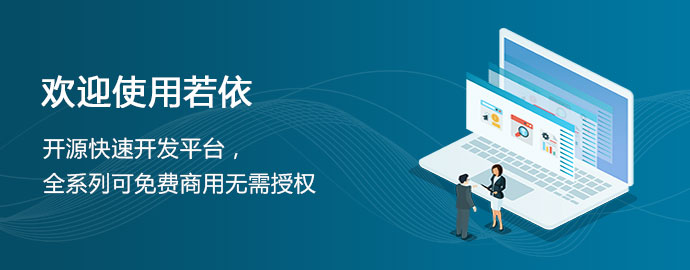
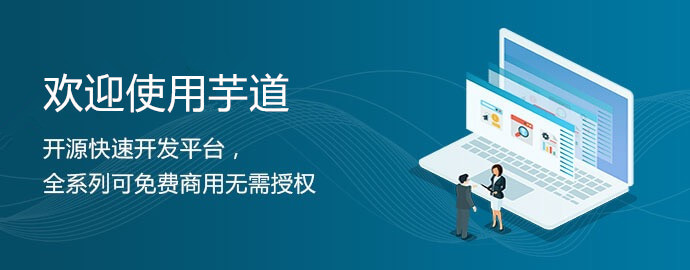
调整 yudao-ui-admin-uniapp 的说明

diff --git a/README.md b/README.md
@@ -23,8 +23,8 @@
 >
 > 😜 给项目点点 Star 吧，这对我们真的很重要！
 
-* 前端 Vue2 版本采用 [vue-element-admin](https://github.com/PanJiaChen/vue-element-admin)
-* 前端 Vue3 版本采用 [vue-element-plus-admin](https://gitee.com/kailong110120130/vue-element-plus-admin)
+* 管理后台的 Vue3 版本采用 [vue-element-plus-admin](https://gitee.com/kailong110120130/vue-element-plus-admin) ，Vue2 版本采用 [vue-element-admin](https://github.com/PanJiaChen/vue-element-admin) 
+* 管理后台的移动端采用 [uni-app](https://github.com/dcloudio/uni-app) 方案，一份代码多终端适配，同时支持 APP、小程序、H5！
 * 后端采用 Spring Boot、MySQL + MyBatis Plus、Redis + Redisson
 * 数据库可使用 MySQL、Oracle、PostgreSQL、SQL Server、MariaDB、国产达梦 DM、TiDB 等
 * 权限认证使用 Spring Security & Token & Redis，支持多终端、多种用户的认证系统，支持 SSO 单点登录
@@ -156,8 +156,9 @@ ps：核心功能已经实现，正在对接微信小程序中...
 | `yudao-dependencies`  | Maven 依赖版本管理       |
 | `yudao-framework`     | Java 框架拓展          |
 | `yudao-server`        | 管理后台 + 用户 APP 的服务端 |
-| `yudao-ui-admin`      | Vue2 管理后台的 UI 界面        |
-| `yudao-ui-admin-vue3`      | Vue3 管理后台的 UI 界面        |
+| `yudao-ui-admin`      | 管理后台的 Vue2 前端项目        |
+| `yudao-ui-admin-vue3`      | 管理后台的 Vue3 前端项目        |
+| `yudao-ui-admin-uniapp`      | 管理后台的 uni-app 多端项目        |
 | `yudao-ui-app`       | 用户 APP 的 UI 界面     |
 | `yudao-module-system` | 系统功能的 Module 模块    |
 | `yudao-module-member` | 会员中心的 Module 模块    |
@@ -192,14 +193,14 @@ ps：核心功能已经实现，正在对接微信小程序中...
 | [JUnit](https://junit.org/junit5/)                                                          | Java 单元测试框架        | 5.8.2    | -                                                              |
 | [Mockito](https://github.com/mockito/mockito)                                               | Java Mock 框架         | 4.0.0    | -                                                              |
 
-### [Vue2 前端](./yudao-ui-admin)
+### [管理后台 Vue2 前端](./yudao-ui-admin)
 
 | 框架                                                                           | 说明            | 版本     |
 |------------------------------------------------------------------------------|---------------|--------|
 | [Vue](https://cn.vuejs.org/index.html)                                       | JavaScript 框架 | 2.6.12 |
 | [Vue Element Admin](https://panjiachen.github.io/vue-element-admin-site/zh/) | 后台前端解决方案      | -      |
 
-### [Vue3 前端](./yudao-ui-admin-vue3)
+### [管理后台 Vue3 前端](./yudao-ui-admin-vue3)
 
 | 框架                                                                  | 说明               | 版本     |
 |----------------------------------------------------------------------|------------------|--------|
@@ -211,6 +212,13 @@ ps：核心功能已经实现，正在对接微信小程序中...
 | [vue-i18n](https://kazupon.github.io/vue-i18n/zh/introduction.html/) | 国际化              | 9.2.0  |
 | [windicss](https://cn.windicss.org/)                                 | 下一代工具优先的 CSS 框架  | 3.5.6  |
 | [iconify](https://icon-sets.iconify.design/)                         | 在线图标库            | 2.2.1  |
+
+### [管理后台 uni-app 跨端](./yudao-ui-admin-uniapp)
+
+| 框架                                                                  | 说明               | 版本     |
+|----------------------------------------------------------------------|------------------|--------|
+| [uni-app](hhttps://github.com/dcloudio/uni-app)                                 | 跨平台框架           | 2.0.0 |
+| [uni-ui](https://github.com/dcloudio/uni-ui)                                      | 基于 uni-app 的 UI 框架          | 1.4.20  |
 
 ## 🐷 演示图
 
@@ -262,3 +270,13 @@ ps：核心功能已经实现，正在对接微信小程序中...
 | 模块      | biu                                                              | biu                                                                    | biu                                                                    |
 |---------|------------------------------------------------------------------|------------------------------------------------------------------------|------------------------------------------------------------------------|
 | 报表设计器 | ![数据报表](https://static.iocoder.cn/images/ruoyi-vue-pro/报表设计器-数据报表.jpg?imageView2/2/format/webp/w/1280) | ![图形报表](https://static.iocoder.cn/images/ruoyi-vue-pro/报表设计器-图形报表.jpg?imageView2/2/format/webp/w/1280) | ![报表设计器-打印设计](https://static.iocoder.cn/images/ruoyi-vue-pro/报表设计器-打印设计.jpg?imageView2/2/format/webp/w/1280) |
+
+### 移动端（管理后台）
+
+| biu                                                              | biu                                                                    | biu                                                                    |
+|------------------------------------------------------------------|------------------------------------------------------------------------|------------------------------------------------------------------------|
+| ![](https://static.iocoder.cn/images/ruoyi-vue-pro/admin-uniapp/01.png?imageView2/2/format/webp) | ![](https://static.iocoder.cn/images/ruoyi-vue-pro/admin-uniapp/02.png?imageView2/2/format/webp) | ![](https://static.iocoder.cn/images/ruoyi-vue-pro/admin-uniapp/03.png?imageView2/2/format/webp) |
+| ![](https://static.iocoder.cn/images/ruoyi-vue-pro/admin-uniapp/04.png?imageView2/2/format/webp) | ![](https://static.iocoder.cn/images/ruoyi-vue-pro/admin-uniapp/05.png?imageView2/2/format/webp) | ![](https://static.iocoder.cn/images/ruoyi-vue-pro/admin-uniapp/06.png?imageView2/2/format/webp) |
+| ![](https://static.iocoder.cn/images/ruoyi-vue-pro/admin-uniapp/07.png?imageView2/2/format/webp) | ![](https://static.iocoder.cn/images/ruoyi-vue-pro/admin-uniapp/08.png?imageView2/2/format/webp) | ![](https://static.iocoder.cn/images/ruoyi-vue-pro/admin-uniapp/09.png?imageView2/2/format/webp) |
+
+目前已经实现登录、我的、工作台、编辑资料、头像修改、密码修改、常见问题、关于我们等基础功能。
